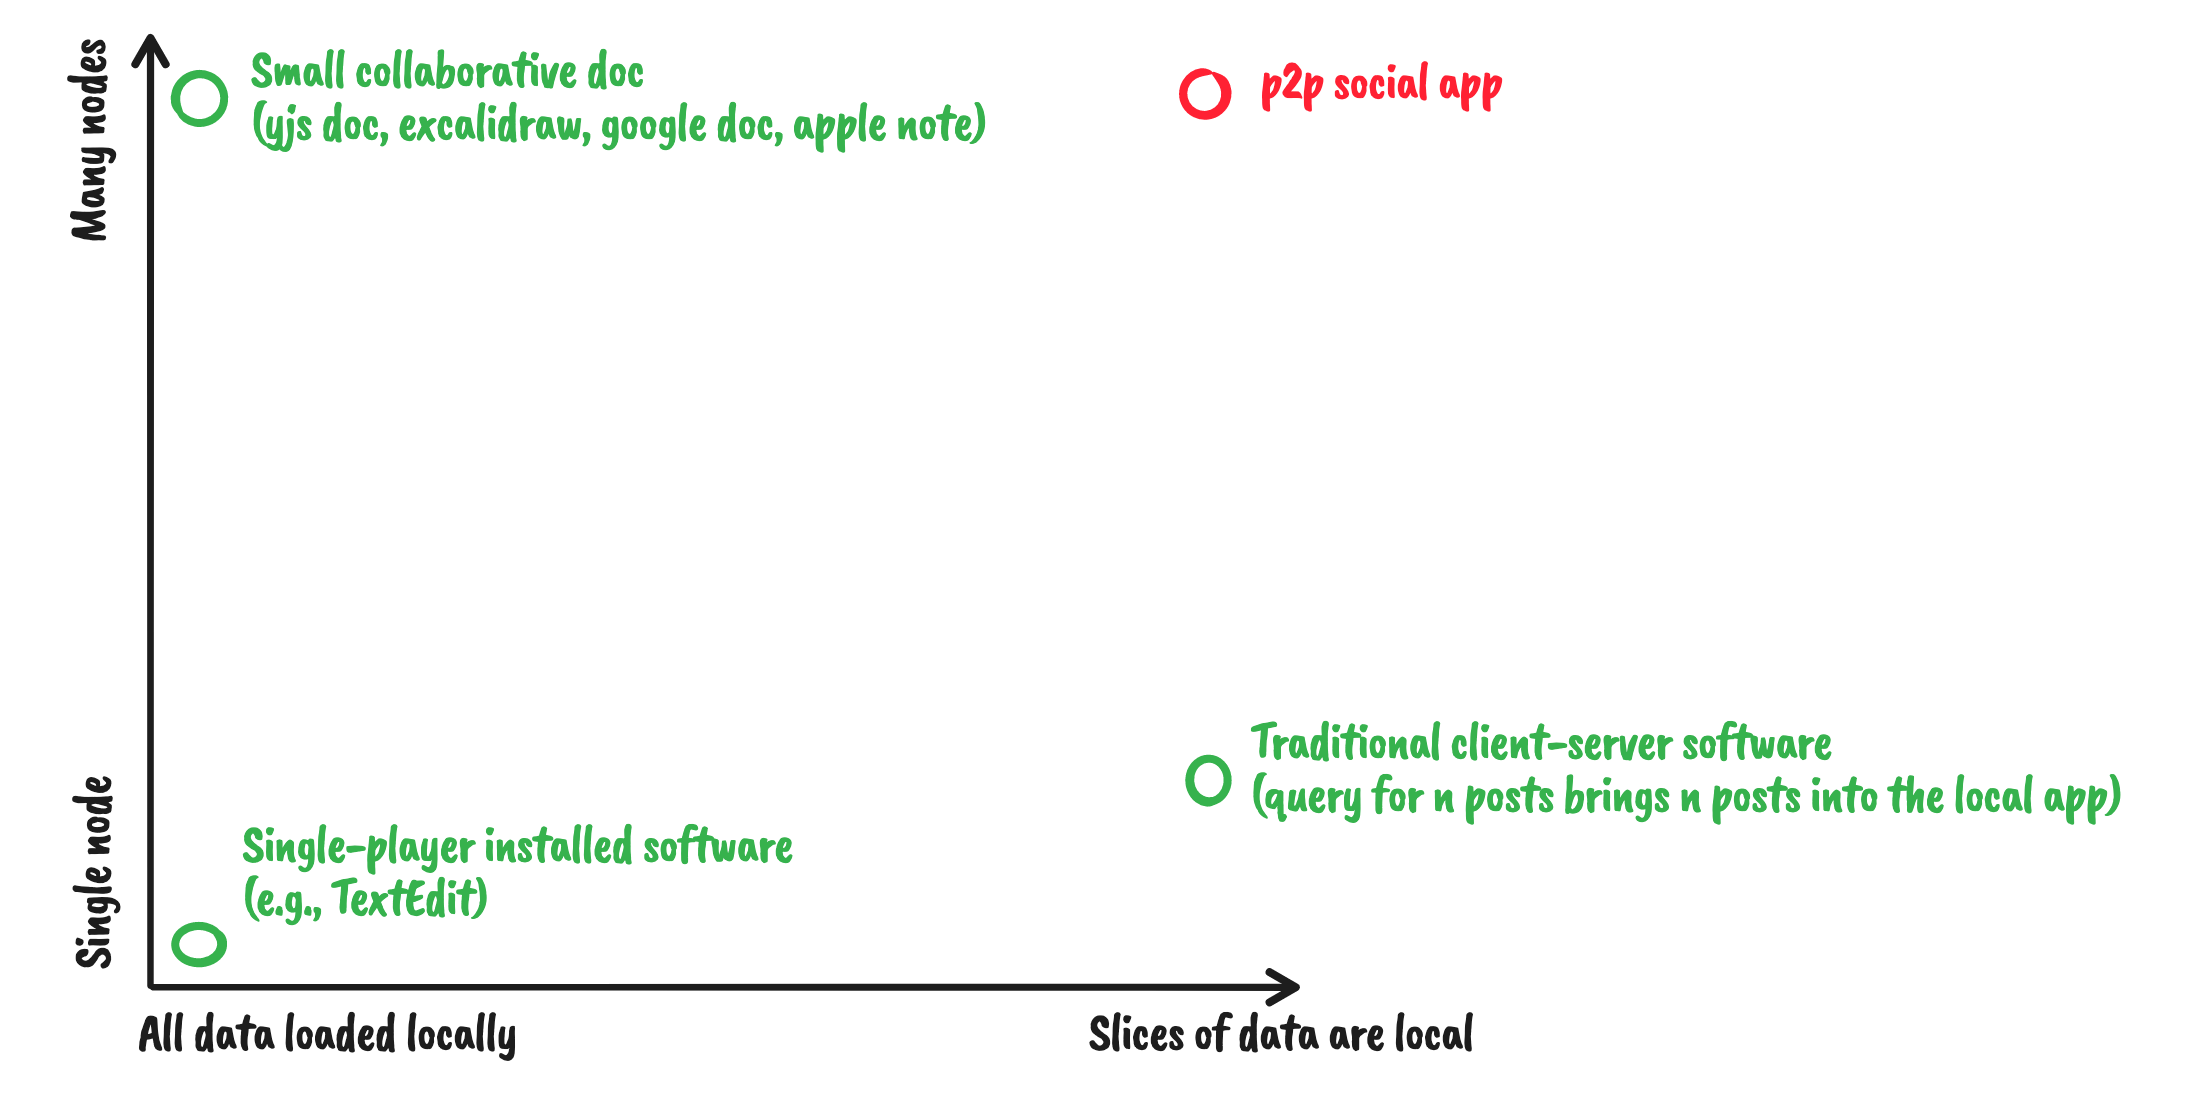
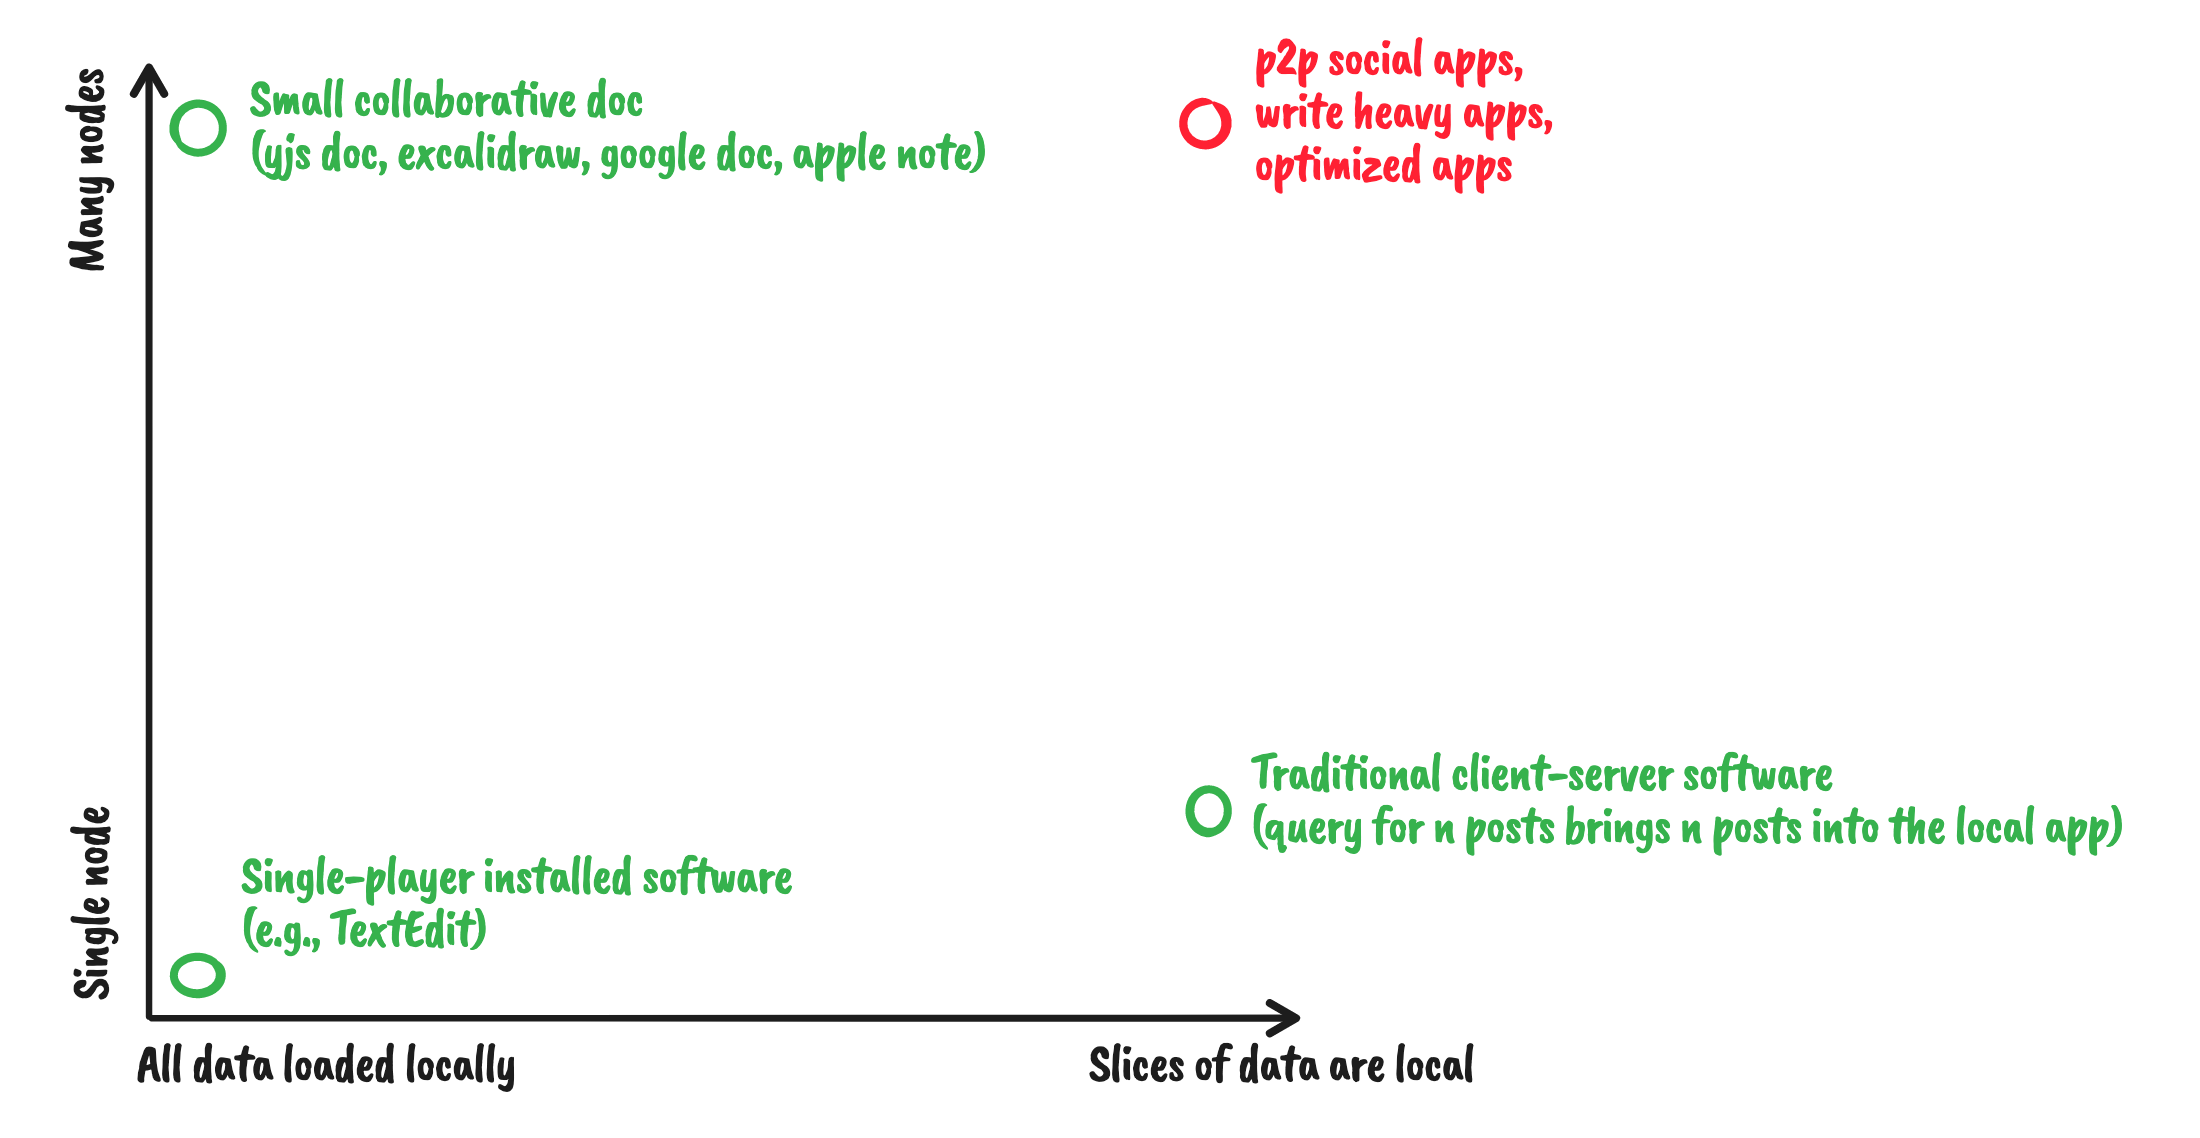
uncovered a new (or missed) case. client/server offline first

diff --git a/content/2022-07-08-local-first-querying.md b/content/2022-07-08-local-first-querying.md
@@ -5,34 +5,53 @@ tags: [programming]
 
 In a local/offline-first world, how do we query for (and keep up to date) the data needed by our app? The answers differ based on where on the spectrum your state needs sit.
 
-On one side, all of the data is local and the are no peers to collaborate with. Here we can use traditional methods such as saving data in a db & querying it with SQL. Data is always up to date given there are no changes to bring in from peers.
+![state spectrum](../docs/blog-assets/local-first-querying/spectrum.png)
 
-On another side, the entire dataset fits on each peer but there are many peers to collaborate with. Queries can still be fully resolved against the local dataset. The local dataset is subscribed to any and all changes from all peers so it stays up to date.
+**Bottom left** - all of the data is local and the are no peers to collaborate with. Here we can use traditional methods such as saving data in a db or in the filesystem & querying it with SQL or filesystem operations. Data is always up to date given there are no changes to bring in from peers. Example here being the `TextEdit` app on MacOS or `Notepad` on Windows.
 
-Briefly -- traditional client-server apps fit in this spectrum. In this case there are two "peers": the service provider and the client. Clients don't interact directly -- instead are abstracted away by the service provider. Slices of data are loaded from the service provider into the client app & updates are received via subscriptions. GraphQL, Apollo, Rest, long polling, websockets, etc. all exist as solutions here.
+**Top left** - the entire dataset fits on each peer but there are many peers to collaborate with. Queries can still be fully resolved against the local dataset. The local dataset is subscribed to all changes from all peers so it stays up to date. Examples here being a yjs doc, google doc, excalidraw drawing.
 
-On the most difficult end
-- Many peers exists and collaborate with one another
-- The total dataset is too large to fit locally or too write heavy to subscribe to all changes
+**Bottom right** -
+Traditional client-server apps fit here. In this case there are two "peers": the service provider and the client. Clients don't interact directly -- instead are abstracted away by the service provider. Slices of data are loaded from the service provider into the client app & updates are received via subscriptions. The "local" data is also only a cache and can be blown away at any point by an update from the service which is the authoritative source.
+
+Very similar to traditional client-server apps, we have offline-first client-server apps. This is the same as the client-server case but the big difference is that the local data is no longer seen as simply a cache but as an authoritative source of information. The client can function and modify data while offline. This "functioning offline" means that queries are considered fulfilled even if they're only fulfilled from local data and do not include server sent data.
+
+**Top right** - in the most difficult quadrant, we have the case where
+- Many peers exists and collaborate directly with one another
+- The total dataset is too large to fit on one peer or too write heavy for a peer to subscribe to all changes
 
 An example here being a p2p social app. Smaller scale examples would be perf optimizations where you shouldn't receive updates to things you're not interacting with.
 
-![state spectrum](../docs/blog-assets/local-first-querying/spectrum.png)
+> Note: traditional client-server software is only included for illustrative purposes. It doesn't belong in the chart given its sychronization protocol is that of a single master (the service provider) arbitrating changes.
 
-- Claim 1: the first 3 cases are all already solved or easily solved.
+- Claim 1: the green cases are all already solved or easily solved. 
 - Assumption 1: the top right corner is the most generic case and solutions for that can support all other cases.
 - Assumption 2: using solutions for the top right to solve for all areas is no more complex than using solutions dedicated to those areas
 
-Given claim 1, we'll focus only on the top right corner: only slices of data are local & many peers.
+Given claim 1, we'll focus only on the orange and red cases.
+
+# Client-Server Offline-First
 
 # Many Peers, Local Slices
 
+For reference, we'll imagine a distributed social app used by an organization of ~1k users.
 
+Slide authoring software? Inventory management? Social app?
 
-# Layering
-
-There's two factors to consider on this side:
+There's two factors to consider in this quadrant:
 1. Is the set of documents known such that we can simply subscribe to documents directly?
 2. Are the "unbounded" connections?
 
+Case (1) is pretty straightforward
+1. The data model is sliced up into manageable docs
+2. The application only subscribes to docs it currently cares about
 
+If any doc has an unbounded connection to some other set of docs, however, we start to run into issues. E.g., a group has thousands of posts and we only want to load the first 10 on the client or only posts with a given tag.
+
+
+
+# Transparency & Layering
+
+# Polyglot
+
+## DB support?
